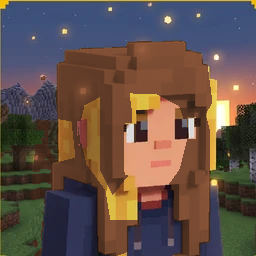
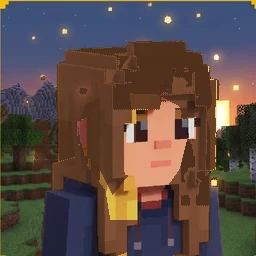
Réduit les profils et corrige cheveux et perruques

diff --git a/src/components/WardrobeGlb.tsx b/src/components/WardrobeGlb.tsx
@@ -21,7 +21,7 @@ export function hasWardrobeModel(kind: OutfitKind) {
   return costumeModels[kind] !== undefined;
 }
 
-function Model({ url, width, height, depth, centerY, centerZ = 0, tint = null }: { url: string; width: number; height: number; depth: number; centerY: number; centerZ?: number; tint?: string | null }) {
+function Model({ url, width, height, depth, centerY, centerZ = 0, rotationY = Math.PI, tint = null }: { url: string; width: number; height: number; depth: number; centerY: number; centerZ?: number; rotationY?: number; tint?: string | null }) {
   const { scene } = useGLTF(url);
   const model = useMemo(() => {
     const clone = scene.clone(true);
@@ -39,14 +39,14 @@ function Model({ url, width, height, depth, centerY, centerZ = 0, tint = null }:
         material.map.needsUpdate = true;
       }
     });
-    clone.rotation.y = Math.PI;
+    clone.rotation.y = rotationY;
     const box = new Box3().setFromObject(clone);
     const size = box.getSize(new Vector3());
     const center = box.getCenter(new Vector3());
     clone.scale.set(width / Math.max(size.x, 0.001), height / Math.max(size.y, 0.001), depth / Math.max(size.z, 0.001));
     clone.position.set(-center.x * clone.scale.x, centerY - center.y * clone.scale.y, centerZ - center.z * clone.scale.z);
     return clone;
-  }, [url, width, height, depth, centerY, centerZ, tint]);
+  }, [url, width, height, depth, centerY, centerZ, rotationY, tint]);
   return <primitive object={model} />;
 }
 
@@ -54,7 +54,7 @@ export function WigGlb({ kind, color = null }: { kind: WigKind; color?: string |
   const large = kind === 'louis14';
   return (
     <Suspense fallback={null}>
-      <Model url={wigModels[kind]} width={large ? 0.68 : 0.6} height={large ? 0.88 : 0.5} depth={large ? 0.64 : 0.57} centerY={large ? 1.58 : 1.66} centerZ={large ? 0.18 : 0.08} />
+      <Model url={wigModels[kind]} rotationY={0} width={large ? 0.68 : 0.6} height={large ? 0.88 : 0.5} depth={large ? 0.64 : 0.57} centerY={large ? 1.58 : 1.66} centerZ={large ? 0.18 : 0.08} />
     </Suspense>
   );
 }

diff --git a/index.html b/index.html
@@ -739,7 +739,7 @@
       @media (max-width: 1000px) { .profile-photo-picker { max-height: max(220px, calc(100dvh - 460px)); } }
       @media (max-width: 650px) { .profile-photo-picker { max-height: max(200px, 52dvh); } }
       .profile-photo-choice { display: grid; min-width: 0; justify-items: center; gap: 4px; padding: 5px 3px; color: #d8e1f2; background: #35415f; border: 1px solid #61708f; cursor: pointer; }
-      .profile-photo-choice .profile-photo { width: 56px; max-width: 100%; height: auto; aspect-ratio: 1; }
+      .profile-photo-choice .profile-photo { width: 44px; max-width: 100%; height: auto; aspect-ratio: 1; }
       .profile-photo-choice .profile-photo-large { width: 96px; }
       .profile-photo-choice.active { border-color: #f1cf67; outline: 2px solid #f1cf67; }
       .profile-photo-choice span { max-width: 100%; overflow: hidden; font-size: 9px; text-overflow: ellipsis; white-space: nowrap; }

diff --git a/src/components/ProfileAvatar.tsx b/src/components/ProfileAvatar.tsx
@@ -104,7 +104,7 @@ export function ProfilePhotoPicker({ onClose }: { onClose: () => void }) {
       {scrollable && !atBottom && <p className="profile-photo-scroll-hint">Fais défiler pour voir les autres profils ↓</p>}
       {photoKinds.map((kind) => (
         <button key={kind} className={`profile-photo-choice ${selected === kind ? 'active' : ''}`} onClick={() => choose(kind)} aria-pressed={selected === kind} aria-label={`Choisir ${PHOTO_AVATARS[kind].name}`} title={PHOTO_AVATARS[kind].name}>
-          <ProfileAvatar kind={kind} size={kind === 'boy-dark' ? 96 : 56} />
+          <ProfileAvatar kind={kind} size={kind === 'boy-dark' ? 96 : 44} />
           <span>{PHOTO_AVATARS[kind].name}</span>
         </button>
       ))}
